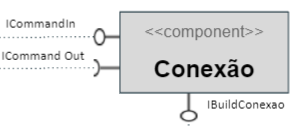
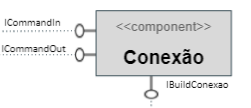
Atualizando ICommandOut

diff --git a/BomberShip/src/src/conexaoComponent/Conexao.java b/BomberShip/src/src/conexaoComponent/Conexao.java
@@ -7,7 +7,7 @@ import java.net.InetAddress;
 import java.net.ServerSocket;
 import java.net.Socket;
 
-public class Conexao implements IBuildConexao, ICommandIn {
+public class Conexao implements IBuildConexao, ICommandIn,ICommandOut {
 
 	public DataOutputStream dos;
 	public DataInputStream dis;

diff --git a/BomberShip/src/src/conexaoComponent/ICommandOut.java b/BomberShip/src/src/conexaoComponent/ICommandOut.java
@@ -1,0 +1,7 @@
+package conexaoComponent;
+
+public interface ICommandOut {
+
+	void enviaDados(String string);
+
+}

diff --git a/BomberShip/README.md b/BomberShip/README.md
@@ -28,7 +28,7 @@
    ![Diagrama Geral](https://github.com/e196486/TimEca/blob/master/BomberShip/assets/docs/VisaoGeral.png)
 
 ## Diagrama Geral de Componentes
- ![Diagrama Analise](https://github.com/e196486/TimEca/blob/master/BomberShip/assets/docs/Components.png)
+ ![Diagrama Analise](https://github.com/e196486/TimEca/blob/master/BomberShip/assets/docs/Diagrama%20de%20Components.png)
 
 ## Componente `Mar`
 
@@ -92,7 +92,7 @@ item | detalhamento
 ----- | -----
 Classe | `controleComponent`
 Autores | `Erica e Henrique`
-Interfaces | `IMarRefactor, ICommandOut, ItemRefactor`
+Interfaces | `IMarRefactor, ItemRefactor`
 
 ### Interfaces
 
@@ -102,14 +102,14 @@ Interfaces associadas a esse componente:
 
 
 > A Conexao vai ser responsável através de socket por estar conectada com o outro player e receber e enviar dados para que o controle possa atuar no jogo 
-![Conexao](https://github.com/e196486/TimEca/blob/master/BomberShip/assets/docs/ConexaoComponent.png)
+![Conexao](https://github.com/e196486/TimEca/blob/master/BomberShip/assets/docs/Conexao%20component.png)
  
 **Ficha Técnica**
 item | detalhamento
 ----- | -----
 Classe | `conexaoComponent`
 Autores | `Erica e Henrique`
-Interfaces | `ICommandIn, IBuildConexao`
+Interfaces | `ICommandIn, ICommandOut, IBuildConexao`
 
 ### Interfaces
 
@@ -117,7 +117,7 @@ Interfaces associadas a esse componente:
 
 
 ## Componente `Montador`
-![Montador](https://github.com/e196486/TimEca/blob/master/BomberShip/assets/docs/MontadorComponent.png)
+![Montador](https://github.com/e196486/TimEca/blob/master/BomberShip/assets/docs/Montador%20component.png)
 
 > O montador vai ser o primeiro componente ativado e atuar uma unica vez; Ele será responsável por criar o jogo e os demais componentes. Ao ativar a conexão, também pegará o tabuleiro inimigo para deixar a tela setada; 
 
@@ -247,12 +247,16 @@ Método | Objetivo
 `Interface responsável por enviar informações .`
 
 ~~~
-<Interface em Java.>
+public interface ICommandOut {
+
+	void enviaDados(String string);
+
+}
 ~~~
 
 Método | Objetivo
 -------| --------
-`<id do método em Java>` | `<objetivo do método e descrição dos parâmetros>`
+`enviaDados(String string)` | `O enviaDados manda a Jogada 'string' para o outro Player`
 
 
 ### Interface `IBuildControle`
@@ -286,14 +290,7 @@ public interface IBuildConexao {
 
 Método | Objetivo
 -------| --------
-`conecta()` | `Conecta estabelece uma conexão com o outro player ou inicia um servidor`
-`iniciaServer()` | `inicia o servidor caso o conecta não seja executado`
-`SetMar(String arq)` | `Estabelece o mar da jogada para a conexao se comunicar com o oponente. arq é o endereço do arquivo CSV contendo o mar`
-`getPlayer()` | `Pega se o jogador é o Host(Servidor da partida`
-`getMarInimigo()` | `pega o mar inimigo enviado pelo oponente`
-`getThis()` | `pega o proprio objeto para passar por parâmetro para outras classes`
-
-
+`<id do método em Java>` | `<objetivo do método e descrição dos parâmetros>`
 
 ### Interface `IBuildMar`
 
